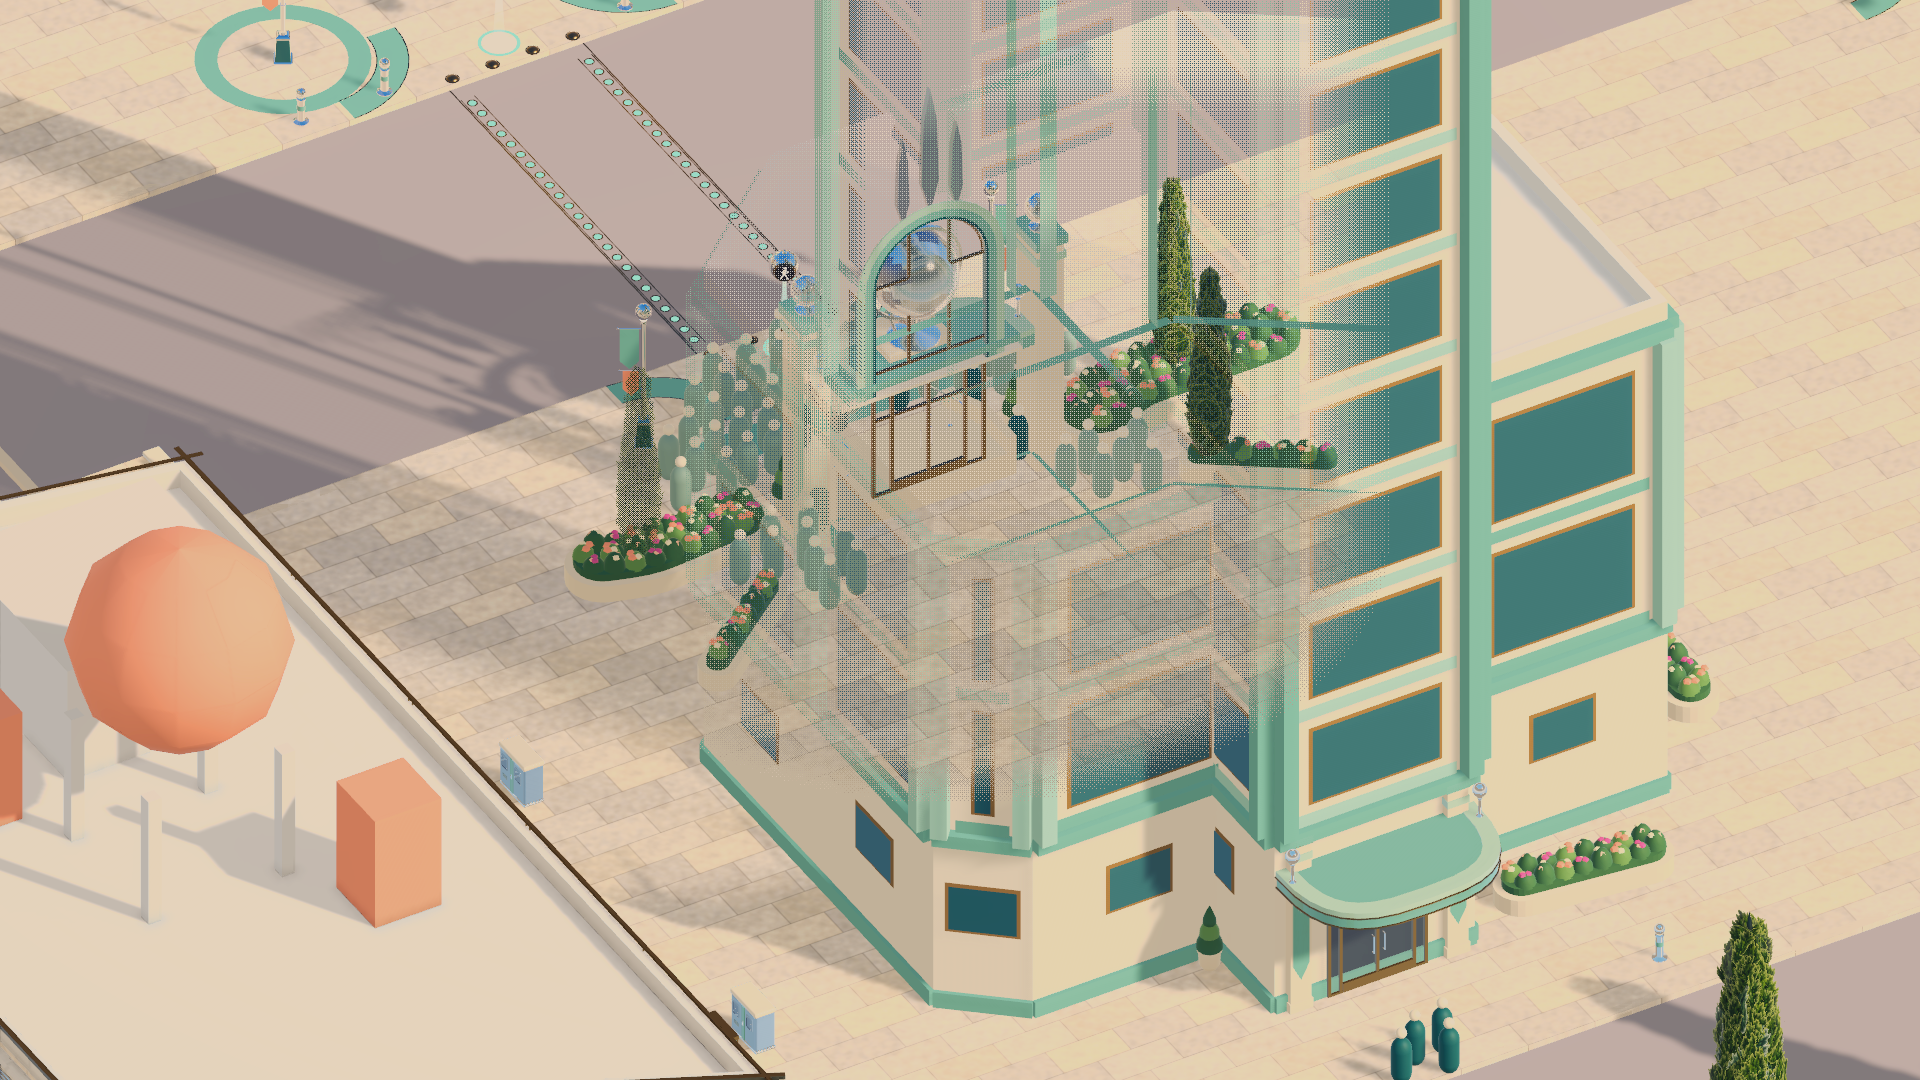
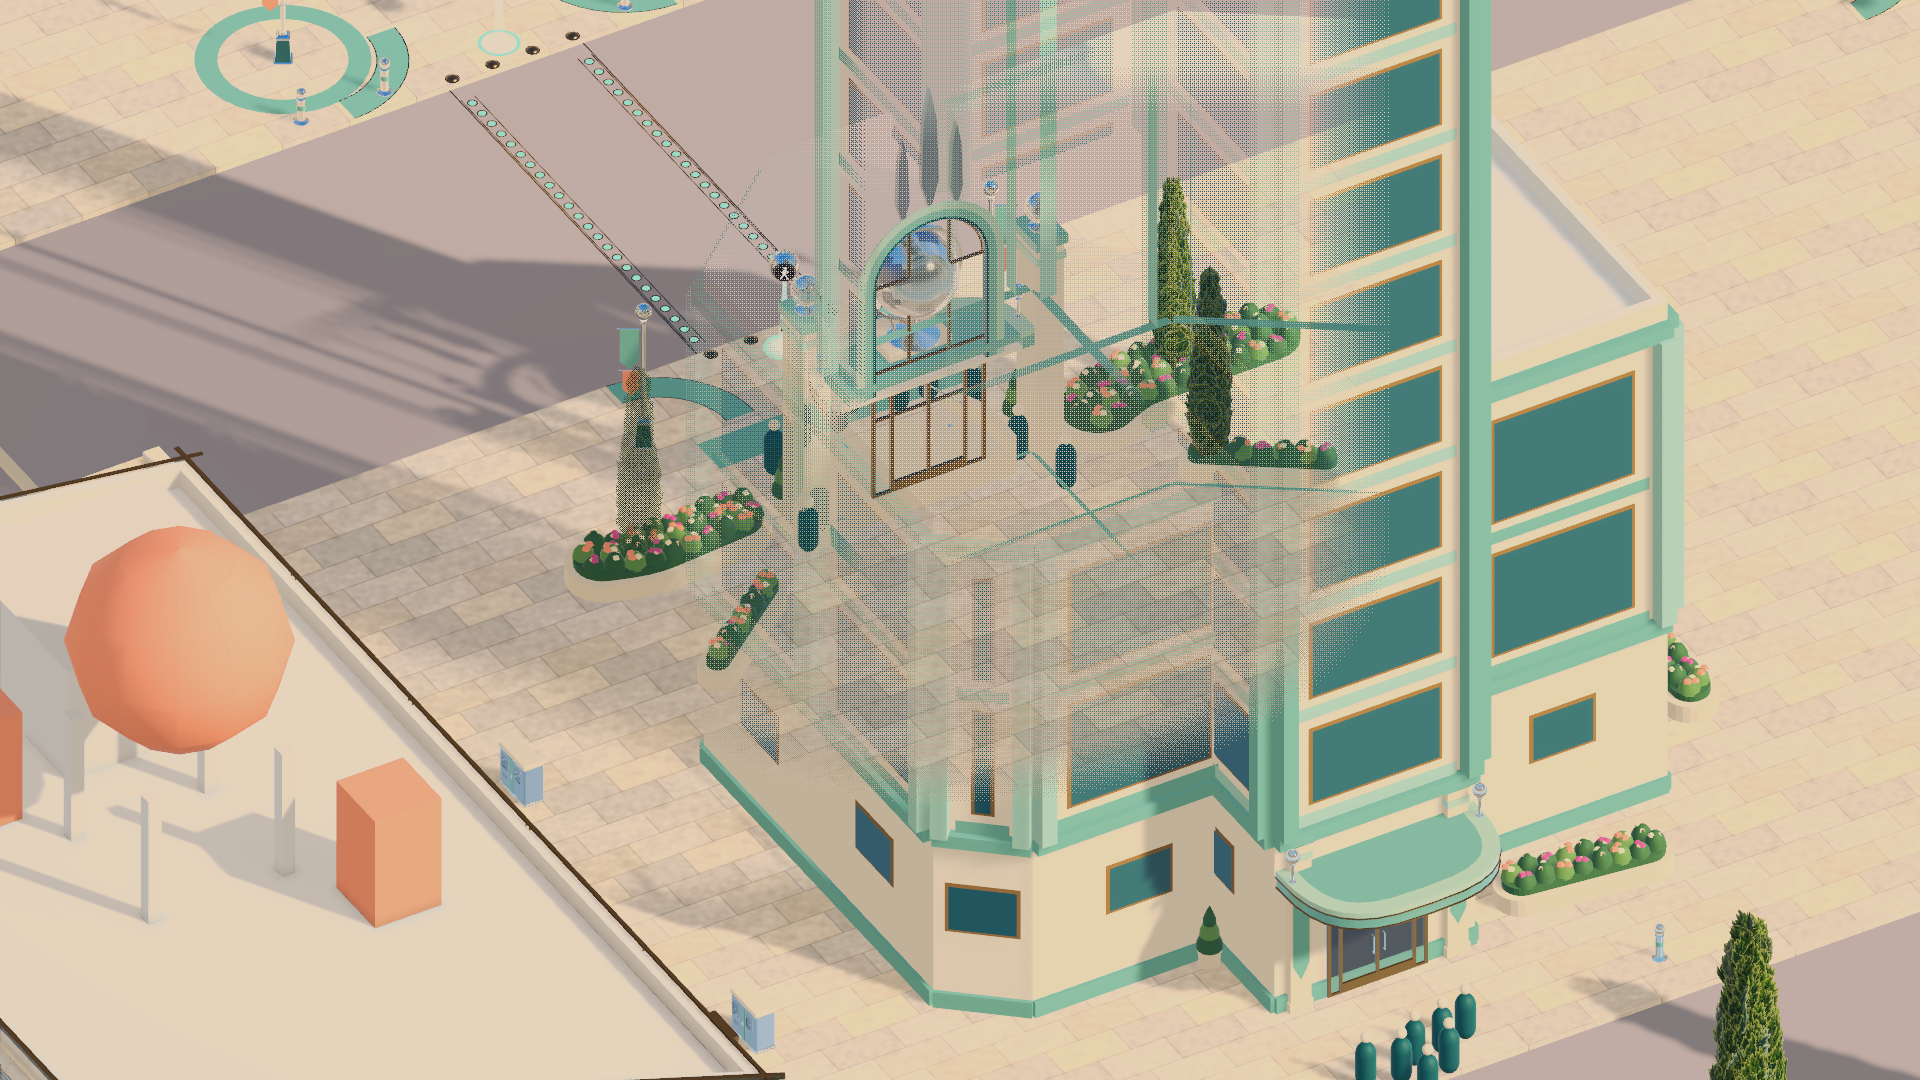
Unity: people from the r013 cast; people inside counted, not drawn; 09:00 and the guard's cafe tie (brief 010 E, Latch)

diff --git a/unity/Assets/Suborned/Editor/World/People/PeopleLayer.cs b/unity/Assets/Suborned/Editor/World/People/PeopleLayer.cs
@@ -17,10 +17,11 @@ namespace Suborned.World.People
     /// simulation (Keel's C# sim steps routines later): each person stands at the routine stop whose [from, to) holds the clock, or,
     /// in the gap between two stops, on the straight line between them at the fraction of the gap (the walk graph the checker uses,
     /// tools/people/walk.ts, is not exported; a straight line is the snapshot's stand-in). A stop off the sheet ("beyond") is not drawn.
-    /// People at one place stand on a sunflower spiral round it, the ones outdoors nearest, the ones indoors (behind the door at work,
-    /// or at home) further out and tinted, every spot clear of the export's building, civic and landmark footprints. Background
+    /// Exteriors only (Sky, 2026-10-15): people inside (behind the door at work, or at home) are not drawn; each place with anyone
+    /// inside gets an `inside: N` counter (InsideCount) the record panel tags at its door. People outdoors at one place stand on a
+    /// sunflower spiral round it, every spot clear of the export's building, civic and landmark footprints. Background
     /// people are counts per plot in the file, not persons: none are drawn. Colours: people.json (civic look palette materials).
-    /// Menu: Suborned/World/People/Snapshot 08:00 | 13:00 | 17:00. Batchmode: -executeMethod Suborned.World.People.PeopleLayer.Build
+    /// Menu: Suborned/World/People/Snapshot 08:00 | 09:00 | 13:00 | 17:00. Batchmode: -executeMethod Suborned.World.People.PeopleLayer.Build
     /// [-people &lt;path&gt;] [-clock HH:MM] (saves the scene).</summary>
     public static class PeopleLayer
     {
@@ -31,6 +32,7 @@ namespace Suborned.World.People
         public static string PeoplePath => HarbourWorldBuilder.Arg("-people", Path.Combine(HarbourWorldBuilder.RepoRoot, "out", "people", "harbour-district.people.json"));
 
         [MenuItem("Suborned/World/People/Snapshot 08:00")] static void At08() => Menu(8 * 60);
+        [MenuItem("Suborned/World/People/Snapshot 09:00")] static void At09() => Menu(9 * 60);
         [MenuItem("Suborned/World/People/Snapshot 13:00")] static void At13() => Menu(13 * 60);
         [MenuItem("Suborned/World/People/Snapshot 17:00")] static void At17() => Menu(17 * 60);
         [MenuItem("Suborned/World/People/Remove")] static void RemoveMenu() { if (GameObject.Find(RootName) is { } g) Undo.DestroyObjectImmediate(g); }
@@ -57,7 +59,7 @@ namespace Suborned.World.People
         public static string Clock(int min) => $"{min / 60 % 24:00}:{min % 60:00}";
 
         /// <summary>What the layer was built from and what it drew.</summary>
-        public sealed class Result { public int Drawn, Walking, Indoors, Beyond, Background; public string Sha; }
+        public sealed class Result { public int Drawn, Walking, Inside, Beyond, Background; public string Sha; }
 
         /// <summary>Replaces the `people` root of the open scene with a snapshot at `clock` minutes. Throws on anything the spec does not know.</summary>
         public static Result Snapshot(int clock)
@@ -80,7 +82,7 @@ namespace Suborned.World.People
                 if (!palette.TryGetValue(material, out var hex)) throw new InvalidDataException($"People: material {material} is not in the civic look palette (CD-4 gates only that palette)");
                 return ColorUtility.TryParseHtmlString(hex, out var c) ? c : throw new InvalidDataException($"People: bad hex {hex}");
             }
-            float height = J.F(spec, "height"), radius = J.F(spec, "radius"), headD = J.F(spec, "head"), spacing = J.F(spec, "spacing"), clear = J.F(spec, "clearance"), tint = J.F(spec, "indoors");
+            float height = J.F(spec, "height"), radius = J.F(spec, "radius"), headD = J.F(spec, "head"), spacing = J.F(spec, "spacing"), clear = J.F(spec, "clearance");
             var headColour = Hex(J.S(spec, "headMaterial"));
             var blocks = J.O(J.Get(spec, "blocks")).ToDictionary(kv => kv.Key, kv => Hex((string)kv.Value));
 
@@ -88,6 +90,8 @@ namespace Suborned.World.People
             var units = J.A(o, "units").ToDictionary(u => J.S(u, "id"), u => J.S(u, "name"));
             var persons = J.A(o, "persons");
             var names = persons.ToDictionary(p => J.S(p, "id"), p => J.S(p, "name"));
+            string WorkOf(object p) => J.Get(p, "work") is { } w ? $"{J.S(w, "position") ?? J.S(w, "role")}, {(units.TryGetValue(J.S(w, "employer"), out var en) ? en : J.S(w, "employer"))}" : "lives here";
+            var jobs = persons.ToDictionary(p => J.S(p, "id"), WorkOf);
             var ground = new Ground(world, passable, clear);
 
             if (GameObject.Find(RootName) is { } old) UnityEngine.Object.DestroyImmediate(old);
@@ -97,16 +101,16 @@ namespace Suborned.World.People
             var res = new Result { Sha = Sha(bytes), Background = J.A(o, "background").Sum(b => (int)J.F(b, "residents") - (int)J.F(b, "simulated")) };
             picker.source = $"{Path.GetFileName(path)} {res.Sha[..12]}, {persons.Count} simulated, {res.Background} background (counts only, not drawn)";
 
-            var mats = new Dictionary<(string, bool), Material>();
+            var mats = new Dictionary<string, Material>();
             var lit = Shader.Find("Universal Render Pipeline/Lit") ?? throw new InvalidDataException("People: URP Lit shader not found");
-            Material Mat(string block, bool indoors)
+            Material Mat(string block)
             {
-                if (mats.TryGetValue((block, indoors), out var m)) return m;
+                if (mats.TryGetValue(block, out var m)) return m;
                 if (!blocks.TryGetValue(block, out var c)) throw new InvalidDataException($"People: look block `{block}` is not in people.json (unknown = reject)");
-                m = new Material(lit) { name = $"people/{block}{(indoors ? "/indoors" : "")}", enableInstancing = true };
-                m.SetColor("_BaseColor", indoors ? Color.Lerp(c, headColour, tint) : c);
+                m = new Material(lit) { name = $"people/{block}", enableInstancing = true };
+                m.SetColor("_BaseColor", c);
                 m.SetFloat("_Smoothness", 0.35f);
-                return mats[(block, indoors)] = m;
+                return mats[block] = m;
             }
             var headMat = new Material(lit) { name = "people/head", enableInstancing = true };
             headMat.SetColor("_BaseColor", headColour); headMat.SetFloat("_Smoothness", 0.35f);
@@ -146,11 +150,19 @@ namespace Suborned.World.People
                 walking.Add((p, Vector2.Lerp(places[p0].at, places[p1].at, f), $"walking {places[p0].name} → {places[p1].name} ({f:P0}; straight line, the walk graph is not exported)"));
             }
 
-            var taken = new List<Vector2>();
-            foreach (var g in standing.GroupBy(x => x.place).OrderBy(g => g.Key, StringComparer.Ordinal))
+            var counters = new GameObject("inside"); counters.transform.SetParent(root.transform, false);
+            foreach (var g in standing.Where(x => x.indoors).GroupBy(x => x.place).OrderBy(g => g.Key, StringComparer.Ordinal))
+            {
+                var at = places[g.Key].at; var c = new GameObject(g.Key);
+                c.transform.SetParent(counters.transform, false);
+                c.transform.localPosition = new Vector3(at.x, ground.Height(at), at.y);
+                var ic = c.AddComponent<InsideCount>(); ic.place = places[g.Key].name; ic.count = g.Count();
+                res.Inside += ic.count;
+            }
+            foreach (var g in standing.Where(x => !x.indoors).GroupBy(x => x.place).OrderBy(g => g.Key, StringComparer.Ordinal))
             {
                 var centre = places[g.Key].at; int k = 0;
-                foreach (var (p, place, indoors, stop) in g.OrderBy(x => x.indoors).ThenBy(x => J.S(x.p, "id"), StringComparer.Ordinal))
+                foreach (var (p, place, _, stop) in g.OrderBy(x => J.S(x.p, "id"), StringComparer.Ordinal))
                 {
                     Vector2 spot;
                     for (; ; k++)
@@ -161,17 +173,16 @@ namespace Suborned.World.People
                         if (!ground.Blocked(spot)) { k++; break; }
                     }
                     var s = J.A(J.Get(p, "routine"), "stops")[stop];
-                    var where = $"{J.S(s, "doing")} at {places[place].name}{(indoors ? " (indoors; drawn at the door)" : "")}";
-                    Person(p, spot, indoors, stop, where);
-                    if (indoors) res.Indoors++;
+                    Person(p, spot, stop, $"{J.S(s, "doing")} at {places[place].name}");
                 }
             }
-            foreach (var (p, at, text) in walking) { Person(p, at, false, -1, text); res.Walking++; }
-            Debug.Log($"People: snapshot {Clock(clock)} from {path} (sha256 {res.Sha[..12]}): {res.Drawn} drawn ({res.Indoors} indoors at their door, {res.Walking} walking), {res.Beyond} off the sheet, {res.Background} background people (counts only)");
+            foreach (var (p, at, text) in walking) { Person(p, at, -1, text); res.Walking++; }
+            picker.source += $", {res.Inside} inside (not drawn)";
+            Debug.Log($"People: snapshot {Clock(clock)} from {path} (sha256 {res.Sha[..12]}): {res.Drawn} drawn ({res.Walking} walking), {res.Inside} inside at {counters.transform.childCount} places (not drawn), {res.Beyond} off the sheet, {res.Background} background people (counts only)");
             EditorSceneManager.MarkSceneDirty(root.scene);
             return res;
 
-            void Person(object p, Vector2 at, bool indoors, int stop, string where)
+            void Person(object p, Vector2 at, int stop, string where)
             {
                 var id = J.S(p, "id");
                 var go = new GameObject(id);
@@ -180,17 +191,17 @@ namespace Suborned.World.People
                 var col = go.AddComponent<CapsuleCollider>();
                 col.height = height; col.radius = radius + 0.07f; col.center = new Vector3(0, height / 2, 0); // a little fatter than drawn: easier to click
                 float bodyH = height - headD - 0.03f;
-                Part(go.transform, "body", capsuleMesh, Mat(J.S(J.Get(p, "look"), "block"), indoors), new Vector3(0, bodyH / 2, 0), new Vector3(radius * 2, bodyH / 2, radius * 2));
+                Part(go.transform, "body", capsuleMesh, Mat(J.S(J.Get(p, "look"), "block")), new Vector3(0, bodyH / 2, 0), new Vector3(radius * 2, bodyH / 2, radius * 2));
                 Part(go.transform, "head", sphereMesh, headMat, new Vector3(0, height - headD / 2, 0), Vector3.one * headD);
                 var rec = go.AddComponent<PersonRecord>();
-                rec.id = id; rec.personName = J.S(p, "name"); rec.indoors = indoors; rec.where = where; rec.now = stop;
+                rec.id = id; rec.personName = J.S(p, "name"); rec.where = where; rec.now = stop;
                 var w = J.Get(p, "work");
                 rec.job = w == null ? "no work (lives here)" : $"{J.S(w, "position") ?? J.S(w, "role")}, {(units.TryGetValue(J.S(w, "employer"), out var en) ? en : J.S(w, "employer"))} ({J.S(w, "post")}, shift {Clock((int)J.F(J.Get(w, "shift"), "from"))}–{Clock((int)J.F(J.Get(w, "shift"), "to"))})";
                 var inst = J.S(p, "institution");
                 var st = J.Get(p, "start");
                 rec.temperament = $"{J.S(p, "temperament")}{(inst != null ? $" (to {inst})" : "")} · bravery {J.F(st, "bravery"):0.#}, resentment {J.F(st, "resentment"):0.#}, fear {J.F(st, "fear"):0.#}, loyalty {J.F(st, "loyalty"):0.#}";
                 rec.need = J.S(p, "need");
-                rec.ties = J.A(p, "ties").Select(t => $"{J.S(t, "kind")} · {(names.TryGetValue(J.S(t, "with"), out var n) ? n : J.S(t, "with"))}").ToArray();
+                rec.ties = J.A(p, "ties").Select(t => $"{J.S(t, "kind")} · {(names.TryGetValue(J.S(t, "with"), out var n) ? $"{n} ({jobs[J.S(t, "with")]})" : J.S(t, "with"))}").ToArray();
                 rec.routine = J.A(J.Get(p, "routine"), "stops").Select(s => $"{Clock((int)J.F(s, "from"))}–{Clock((int)J.F(s, "to"))}  {J.S(s, "doing")}, {(J.S(s, "place") == "beyond" ? "off the sheet" : places[J.S(s, "place")].name)}").ToArray();
                 res.Drawn++;
             }

diff --git a/unity/Assets/Suborned/Runtime/People/PeoplePicker.cs b/unity/Assets/Suborned/Runtime/People/PeoplePicker.cs
@@ -5,13 +5,15 @@ using UnityEngine.InputSystem;
 namespace Suborned.People
 {
     /// <summary>Graybox record panel (brief 010 E; Glyph does the real HUD later): in Play Mode a left click on a person's capsule
-    /// opens their record (top right, with a tag over the person), a click on empty ground or Esc closes it. Plain IMGUI, scaled to the screen height (laid out at 1080p).</summary>
+    /// opens their record (top right, with a tag over the person), a click on empty ground or Esc closes it. Places with people
+    /// inside (not drawn: exteriors only) carry a small `inside: N` tag at their door. Plain IMGUI, scaled to the screen height (laid out at 1080p).</summary>
     public sealed class PeoplePicker : MonoBehaviour
     {
         /// <summary>The snapshot the layer stands at, and where its people came from (set by the layer builder).</summary>
         public string clock, source;
         public PersonRecord selected;
 
+        [System.NonSerialized] InsideCount[] inside;
         [System.NonSerialized] GUIStyle box, title, body, dim, bold; // never carried over a domain reload: built on the first OnGUI
         const float W = 700f, Pad = 18f;
 
@@ -75,6 +77,20 @@ namespace Suborned.People
             var hs = body.CalcSize(new GUIContent(hint));
             GUI.Box(new Rect(16 * s, Screen.height - 46 * s, hs.x + 16 * s, 34 * s), GUIContent.none, box);
             GUI.Label(new Rect(24 * s, Screen.height - 42 * s, hs.x + 8 * s, 30 * s), hint, body);
+            if (Camera.main is { } c0)
+            {
+                inside ??= GetComponentsInChildren<InsideCount>();
+                foreach (var ic in inside)
+                {
+                    var sp = c0.WorldToScreenPoint(ic.transform.position);
+                    if (sp.z <= 0f || sp.x < 0 || sp.x > Screen.width || sp.y < 0 || sp.y > Screen.height) continue;
+                    var t = $"inside: {ic.count}";
+                    var size = dim.CalcSize(new GUIContent(t)) + new Vector2(12 * s, 4 * s);
+                    var r0 = new Rect(sp.x - size.x / 2, Screen.height - sp.y - size.y, size.x, size.y);
+                    GUI.Box(r0, GUIContent.none, box);
+                    GUI.Label(new Rect(r0.x + 6 * s, r0.y + 2 * s, size.x, size.y), t, dim);
+                }
+            }
             if (!selected) return;
             if (Camera.main is { } cam) // a tag over the selected person, so the panel and the capsule read as one
             {

diff --git a/unity/Assets/Suborned/Editor/World/People/PeopleShots.cs b/unity/Assets/Suborned/Editor/World/People/PeopleShots.cs
@@ -6,13 +6,13 @@ using UnityEngine;
 
 namespace Suborned.World.People
 {
-    /// <summary>Brief 010 E evidence: the people layer at 08:00, 13:00 and 17:00 from the play camera (zoom 14, pitch 38, yaw 30,
+    /// <summary>Brief 010 E evidence: the people layer at 08:00, 09:00 (the guards walking to the café before their shift), 13:00 and 17:00 from the play camera (zoom 14, pitch 38, yaw 30,
     /// 1920x1080) over the café square (the export's play focus) and over the Records Office front (the same camera moved to the
     /// Office door), to &lt;repo&gt;/briefs/010/shots/people-&lt;HHMM&gt;-&lt;frame&gt;.png. Leaves the layer at 17:00 and saves the scene.
     /// Menu: Suborned/World/People/Shots (010). Batchmode (needs a GPU): -executeMethod Suborned.World.People.PeopleShots.Render</summary>
     public static class PeopleShots
     {
-        static readonly int[] Clocks = { 8 * 60, 13 * 60, 17 * 60 };
+        static readonly int[] Clocks = { 8 * 60, 9 * 60, 13 * 60, 17 * 60 };
         /// <summary>Plan point the second frame centres on: the Records Office public entrance (-160, -281.75) and the square in front.</summary>
         static readonly Vector2 Office = new(-160f, -284f);
 

diff --git a/unity/Assets/Suborned/Runtime/People/InsideCount.cs b/unity/Assets/Suborned/Runtime/People/InsideCount.cs
@@ -1,0 +1,12 @@
+using UnityEngine;
+
+namespace Suborned.People
+{
+    /// <summary>How many simulated people are inside at one place at the snapshot clock (brief 010 E; exteriors only: people
+    /// inside are not drawn). Written by the layer builder at the place's door; PeoplePicker tags it `inside: N`.</summary>
+    public sealed class InsideCount : MonoBehaviour
+    {
+        public string place;
+        public int count;
+    }
+}

diff --git a/unity/Assets/Suborned/Runtime/People/PersonRecord.cs b/unity/Assets/Suborned/Runtime/People/PersonRecord.cs
@@ -10,6 +10,5 @@ namespace Suborned.People
         public string[] ties, routine;
         /// <summary>The routine line the snapshot clock falls in (-1: walking between two lines).</summary>
         public int now = -1;
-        public bool indoors;
     }
 }
